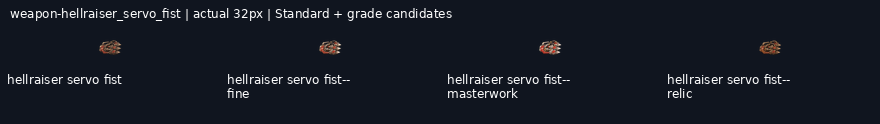
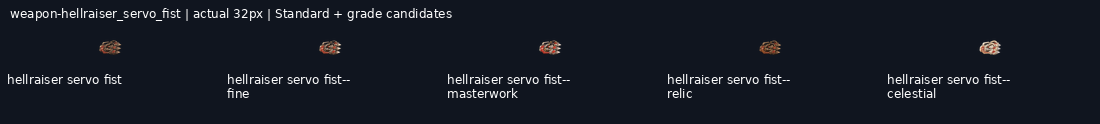
Deliver weapon-hellraiser_servo_fist--celestial review candidate

diff --git a/art/_archive/gear/2026-11-20-reset-continuation/HANDOFF.md b/art/_archive/gear/2026-11-20-reset-continuation/HANDOFF.md
@@ -1,13 +1,13 @@
 # Reset continuation progress
 
-Branch: `art/2026-11-20-reset-continuation`. New deliveries: 13/22.
+Branch: `art/2026-11-20-reset-continuation`. New deliveries: 14/22.
 
 Shared coordination: https://github.com/leonpentastorm/Project-Heaven-Cry/issues/3 . Read START-HERE.md before extending this queue.
 
 All new entries remain review-candidate; production_approved:false and implementation_ready:false. Exact-outline review remains pending.
 
-Ready jobs: weapon-hellraiser_servo_fist--celestial, weapon-hellraiser_rotary--fine, weapon-purifier_flamer--fine.
+Ready jobs: weapon-hellraiser_rotary--fine, weapon-purifier_flamer--fine.
 
-Pending jobs: weapon-hellraiser_servo_fist--celestial, weapon-hellraiser_rotary--fine, weapon-hellraiser_rotary--masterwork, weapon-hellraiser_rotary--relic, weapon-hellraiser_rotary--celestial, weapon-purifier_flamer--fine, weapon-purifier_flamer--masterwork, weapon-purifier_flamer--relic, weapon-purifier_flamer--celestial.
+Pending jobs: weapon-hellraiser_rotary--fine, weapon-hellraiser_rotary--masterwork, weapon-hellraiser_rotary--relic, weapon-hellraiser_rotary--celestial, weapon-purifier_flamer--fine, weapon-purifier_flamer--masterwork, weapon-purifier_flamer--relic, weapon-purifier_flamer--celestial.
 
 Quota state: null.
